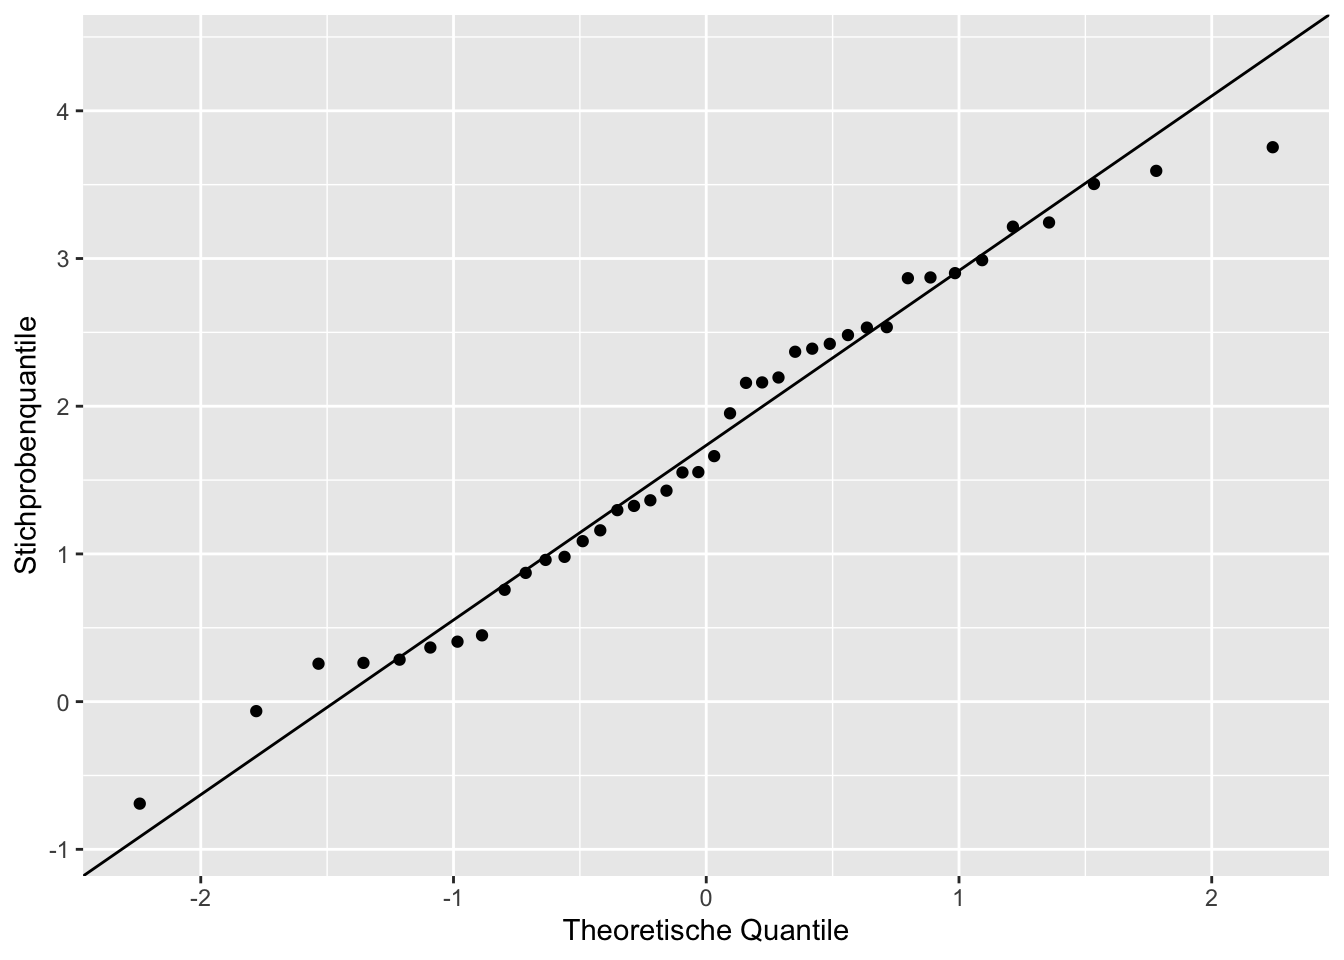
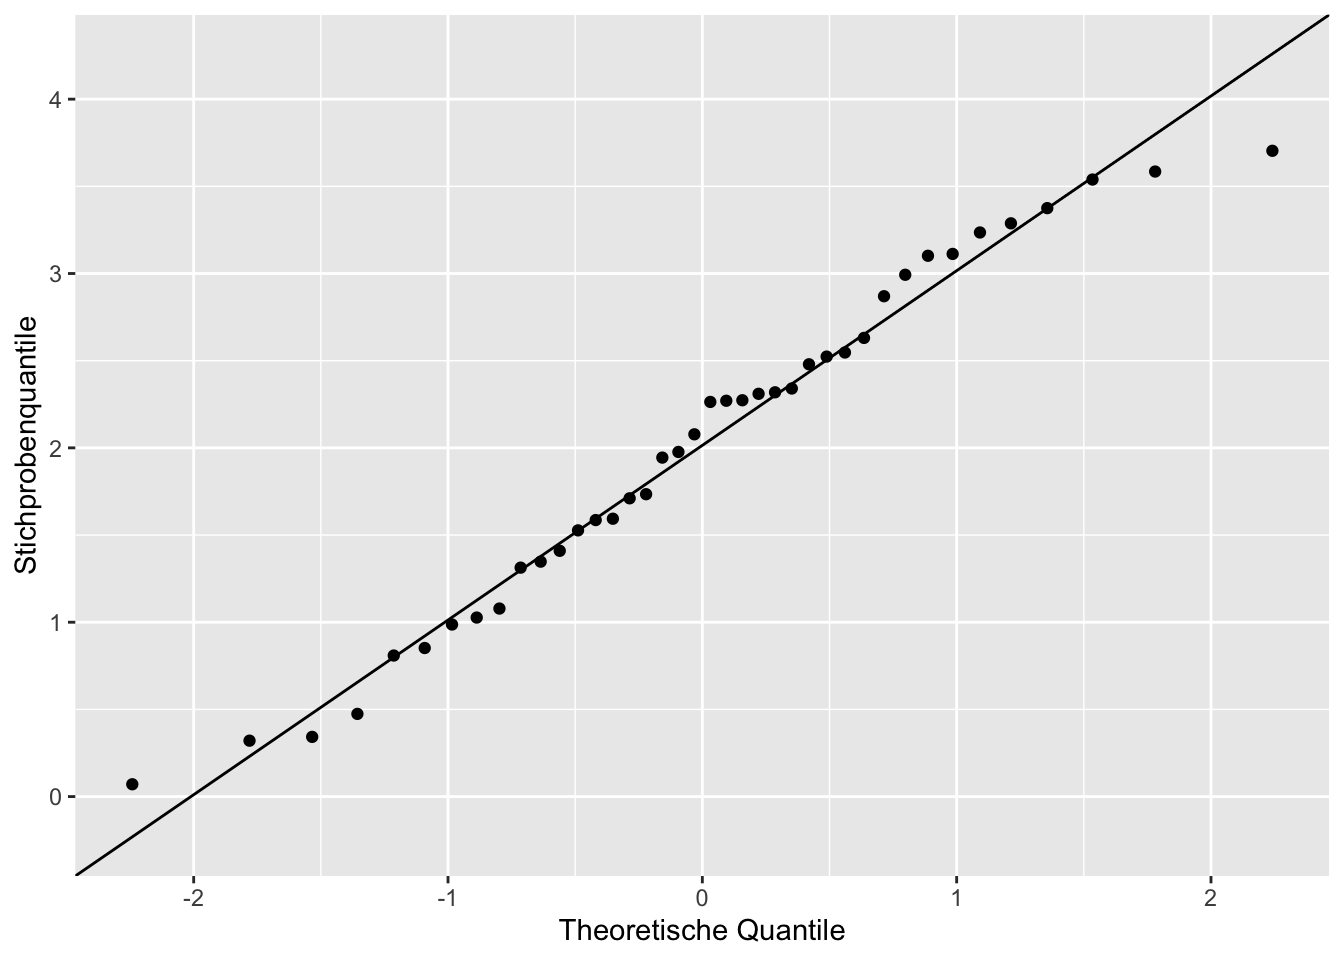
end of block biometry 1

diff --git a/docs/biometrie1/biometrie1.html b/docs/biometrie1/biometrie1.html
@@ -148,13 +148,11 @@ window.Quarto = {
 <!-- sidebar -->
 <!-- margin-sidebar -->
     <div id="quarto-margin-sidebar" class="sidebar margin-sidebar">
-        <nav id="TOC" role="doc-toc" class="toc-active" data-toc-expanded="99">
+        <nav id="TOC" role="doc-toc" class="toc-active">
     <h2 id="toc-title">Inhalt</h2>
    
   <ul>
-  <li><a href="#biometrie-i" id="toc-biometrie-i" class="nav-link active" data-scroll-target="#biometrie-i">Biometrie I</a>
-  <ul class="collapse">
-  <li><a href="#einführung" id="toc-einführung" class="nav-link" data-scroll-target="#einführung">Einführung</a>
+  <li><a href="#einführung" id="toc-einführung" class="nav-link active" data-scroll-target="#einführung">Einführung</a>
   <ul class="collapse">
   <li><a href="#relevante-journals" id="toc-relevante-journals" class="nav-link" data-scroll-target="#relevante-journals">Relevante Journals</a></li>
   <li><a href="#modellierung-in-der-biostatistik" id="toc-modellierung-in-der-biostatistik" class="nav-link" data-scroll-target="#modellierung-in-der-biostatistik">Modellierung in der Biostatistik</a></li>
@@ -231,7 +229,13 @@ window.Quarto = {
   <li><a href="#zweigruppenvergleich-für-überlebenszeiten" id="toc-zweigruppenvergleich-für-überlebenszeiten" class="nav-link" data-scroll-target="#zweigruppenvergleich-für-überlebenszeiten">Zweigruppenvergleich für Überlebenszeiten</a></li>
   <li><a href="#hazard-ratio" id="toc-hazard-ratio" class="nav-link" data-scroll-target="#hazard-ratio">Hazard Ratio</a></li>
   </ul></li>
+  <li><a href="#einführung-in-die-bayesianische-statistik" id="toc-einführung-in-die-bayesianische-statistik" class="nav-link" data-scroll-target="#einführung-in-die-bayesianische-statistik">Einführung in die Bayesianische Statistik</a>
+  <ul class="collapse">
+  <li><a href="#theorem-von-bayes" id="toc-theorem-von-bayes" class="nav-link" data-scroll-target="#theorem-von-bayes">Theorem von Bayes</a></li>
+  <li><a href="#nomenklatur" id="toc-nomenklatur" class="nav-link" data-scroll-target="#nomenklatur">Nomenklatur</a></li>
+  <li><a href="#allgemeiner-workflow" id="toc-allgemeiner-workflow" class="nav-link" data-scroll-target="#allgemeiner-workflow">Allgemeiner Workflow</a></li>
   </ul></li>
+  <li><a href="#übungen" id="toc-übungen" class="nav-link" data-scroll-target="#übungen">Übungen</a></li>
   </ul>
 </nav>
     </div>
@@ -241,8 +245,6 @@ window.Quarto = {
 
 
 
-<section id="biometrie-i" class="level1">
-<h1>Biometrie I</h1>
 <section id="einführung" class="level2">
 <h2 class="anchored" data-anchor-id="einführung">Einführung</h2>
 <section id="relevante-journals" class="level3">
@@ -1683,10 +1685,142 @@ Die Nullhypothese lautet <span class="math display">\[H_0: h_1(t) = h_2(t)\]</sp
 <li>Das Hazard Ratio ist definiert als <span class="math display">\[HR = \frac{\frac{D_1}{E_1}}{\frac{D_2}{E_2}}\]</span></li>
 <li>Interpretation: Das Risiko des Event-Eintritts ist in der Interventionsgruppe <span class="math inline">\(HR\)</span>-mal das Risiko der Kontrollgruppe.</li>
 </ul>
-
-
 </section>
 </section>
+<section id="einführung-in-die-bayesianische-statistik" class="level2">
+<h2 class="anchored" data-anchor-id="einführung-in-die-bayesianische-statistik">Einführung in die Bayesianische Statistik</h2>
+<p>Was genau bedeutet z.B. die Angabe eines Konfidenzintervalls?</p>
+<section id="der-frequentistische-ansatz" class="level4">
+<h4 class="anchored" data-anchor-id="der-frequentistische-ansatz">Der frequentistische Ansatz</h4>
+<ul>
+<li>Ein (wahrer) Parameter ist fixiert, aber unbekannt und unbestimmbar.</li>
+<li>Die erhobenen Daten sind Ergebnisse eines Zufalssexperiments</li>
+<li>Wenn man dieselbe Studie viele Male machen würde, läge der wahre Wert in 95% der Fälle im Konfidenzintervall</li>
+<li>Für jeden einzelnen Fall liegt die Wahrheit entweder im Intervall oder nicht (0,1)</li>
+</ul>
+</section>
+<section id="bayes" class="level4">
+<h4 class="anchored" data-anchor-id="bayes">Bayes</h4>
+<ul>
+<li>Ein Parameter ist unsicher und Wahrscheinlichkeitsverteilungen drücken aus, wie sehr man dem Maß des Parameters vertrtaut</li>
+<li>Erhobene Daten sind fixiert</li>
+<li>Das 95% Konfidenzintervall gibt tatsächlich eine 95%-Chance an, dass die Wahrheit im Intervall liegt.</li>
+</ul>
+</section>
+<section id="theorem-von-bayes" class="level3">
+<h3 class="anchored" data-anchor-id="theorem-von-bayes">Theorem von Bayes</h3>
+<p><span class="math display">\[P(A \mid B) = \frac{P(B \mid A)P(A)}{P(B)}\]</span></p>
+<section id="beispiel-biomarkertest" class="level4">
+<h4 class="anchored" data-anchor-id="beispiel-biomarkertest">Beispiel Biomarkertest</h4>
+<ul>
+<li>Sensitivität und Spezifität sind in erster Linie Aussagen über einen Test, nicht über den Patienten.</li>
+<li>Zusammen mit der (bekannten oder geschätzten) Prävalenz der Krankheit in der Bevölkerung, kann ein individuelles Risiko abgeschätzt werden</li>
+<li>Sensitivität und individuelles Erkrankungsrisiko gehen oft weit auseinander, abhängig von der Prävalenz in der untersuchten Population</li>
+</ul>
+<div class="callout callout-style-default callout-important callout-titled">
+<div class="callout-header d-flex align-content-center">
+<div class="callout-icon-container">
+<i class="callout-icon"></i>
+</div>
+<div class="callout-title-container flex-fill">
+Important
+</div>
+</div>
+<div class="callout-body-container callout-body">
+<p>Gesetze der bedingten Wahrscheinlichkeiten wiederholen!</p>
+</div>
+</div>
+</section>
+<section id="verallgemeinerter-satz-von-bayes" class="level4">
+<h4 class="anchored" data-anchor-id="verallgemeinerter-satz-von-bayes">Verallgemeinerter Satz von Bayes</h4>
+<p><span class="math display">\[P(\theta \mid D) = \frac{P(D \mid \theta)P(\theta)}{P(D)}\]</span> <span class="math inline">\(\theta\)</span>: der Parameter, für den wir die posterior Wahrscheinlichkeit berechnen <span class="math inline">\(D\)</span>: die beobachteten Daten</p>
+</section>
+</section>
+<section id="nomenklatur" class="level3">
+<h3 class="anchored" data-anchor-id="nomenklatur">Nomenklatur</h3>
+<ul>
+<li><span class="math inline">\(f(\theta)\)</span>: Prior - Annahmen über den Parameter vor dem Experiment</li>
+<li><span class="math inline">\(f(D \mid \theta)\)</span> - likelihood: Wahrscheinlichkeit der beobachteten Daten</li>
+<li><span class="math inline">\(f(D)\)</span> - marginal likelihood: normalisierende Konstante</li>
+<li><span class="math inline">\(f(\theta \mid D)\)</span> - posterior: die aktualisierte Annahme über <span class="math inline">\(\theta\)</span>, nachdem die Daten gesehen wurden.</li>
+</ul>
+<div class="callout callout-style-simple callout-none no-icon">
+<div class="callout-body d-flex">
+<div class="callout-icon-container">
+<i class="callout-icon no-icon"></i>
+</div>
+<div class="callout-body-container">
+<p>Übung:</p>
+<table class="caption-top table">
+<thead>
+<tr class="header">
+<th style="text-align: left;"><span class="math inline">\(\theta\)</span></th>
+<th style="text-align: center;">0.2</th>
+<th style="text-align: center;">0.6</th>
+</tr>
+</thead>
+<tbody>
+<tr class="odd">
+<td style="text-align: left;"><span class="math inline">\(P(\theta)\)</span></td>
+<td style="text-align: center;">0.70</td>
+<td style="text-align: center;">0.30</td>
+</tr>
+</tbody>
+</table>
+<p>a: Berechne die likelihood der beiden prior gegeben die Beobachtungen<br>
+b: Summiere die beiden Produkte “prior x likelihood”. Dies ist die marginal likelihood <span class="math inline">\(P(y)\)</span> aus der allgemeinen Formel<br>
+c: Dividiere jeden “prior x likelihood”-Wert durch diese Summe, um den posterior <span class="math inline">\(P(\theta \mid y)\)</span> zu erhalten.<br>
+d: Welches <span class="math inline">\(\theta\)</span> hat jetzt die höhere posterior probability?<br>
+e: Berechne den posterior mean <span class="math inline">\(\sum_\theta \theta \cdot P(\theta \mid y)\)</span></p>
+</div>
+</div>
+</div>
+<p><strong>Lösungen</strong>: a: likelihood: <span class="math inline">\(f(D \mid \theta)_1 = \binom{n}{k} p^k \cdot (1-p)^{n-k}\)</span><br>
+<span class="math inline">\(f(0.2) = 0.0064\)</span><br>
+<span class="math inline">\(f(0.6) = 0.2592\)</span><br>
+</p>
+<p>b: <span class="math inline">\(P(y) = P(0.2) \cdot f(0.2) + P(0.6) \cdot f(0.2) = 0.7 * 0.0064 + 0.3 * 0.2592= 0.0045 + 0.0778 = 0.0823\)</span><br>
+c: für 1: <span class="math inline">\(\frac{0.0045}{0.0823} = 0.054\)</span><br>
+für 2: <span class="math inline">\(\frac{0.0778}{0.0823} = 0.946\)</span><br>
+e: prior mean: <span class="math inline">\(0.2*0.7 + 0.6*0.3\)</span><br>
+posterior mean: <span class="math inline">\(0.2 * 0.054 + 0.6*0.946\)</span></p>
+<section id="conjugate-update-rule" class="level4">
+<h4 class="anchored" data-anchor-id="conjugate-update-rule">Conjugate Update Rule</h4>
+<p>Ein posterior kann mit neuen Daten einfach geupdatet werden, wenn <span class="math inline">\(y \mid \theta\)</span> binomialverteilt ist und für <span class="math inline">\(\theta\)</span> eine <a href="https://de.wikipedia.org/wiki/Beta-Verteilung">Beta-Verteilung</a> angenommen wird: <span class="math display">\[\theta \sim Beta(a,b) \xrightarrow{\text{y successes out of n}} \theta \mid y \sim Beta(a+y, b+n-y)\]</span></p>
+</section>
+<section id="berichtete-größen" class="level4">
+<h4 class="anchored" data-anchor-id="berichtete-größen">Berichtete Größen</h4>
+<ul>
+<li>Punktschätzer: Mittelwert der posterior distribution</li>
+<li>Quantile der Verteilung, z.B. 95%-Quantile</li>
+<li>Credible Interval: ein Intervall, das eine definierte Wahrscheinlichkeitsmasse umfasst, z.B. 95%</li>
+<li>Heghest Density Interval: Das engste Intervall, das 95% der Masse enthält.</li>
+</ul>
+</section>
+</section>
+<section id="allgemeiner-workflow" class="level3">
+<h3 class="anchored" data-anchor-id="allgemeiner-workflow">Allgemeiner Workflow</h3>
+<ol type="1">
+<li>Likelihood besitmmen</li>
+<li>Prior bestimmen</li>
+<li>Posterior berechnen</li>
+<li>Posterior zusammenfassen</li>
+<li>Posterior berichten</li>
+</ol>
+</section>
+</section>
+<section id="übungen" class="level2">
+<h2 class="anchored" data-anchor-id="übungen">Übungen</h2>
+<p>1.a<br>
+</p>
+<div class="cell">
+<div class="code-copy-outer-scaffold"><div class="sourceCode cell-code" id="cb99"><pre class="sourceCode r code-with-copy"><code class="sourceCode r"><span id="cb99-1"><a href="#cb99-1" aria-hidden="true" tabindex="-1"></a><span class="fu">qt</span>(<span class="at">p =</span> <span class="fl">0.975</span>, <span class="dv">60</span>)</span></code></pre></div><button title="Copy to Clipboard" class="code-copy-button"><i class="bi"></i></button></div>
+<div class="cell-output cell-output-stdout">
+<pre><code>[1] 2.000298</code></pre>
+</div>
+</div>
+
+
 </section>
 
 </main> <!-- /main -->
